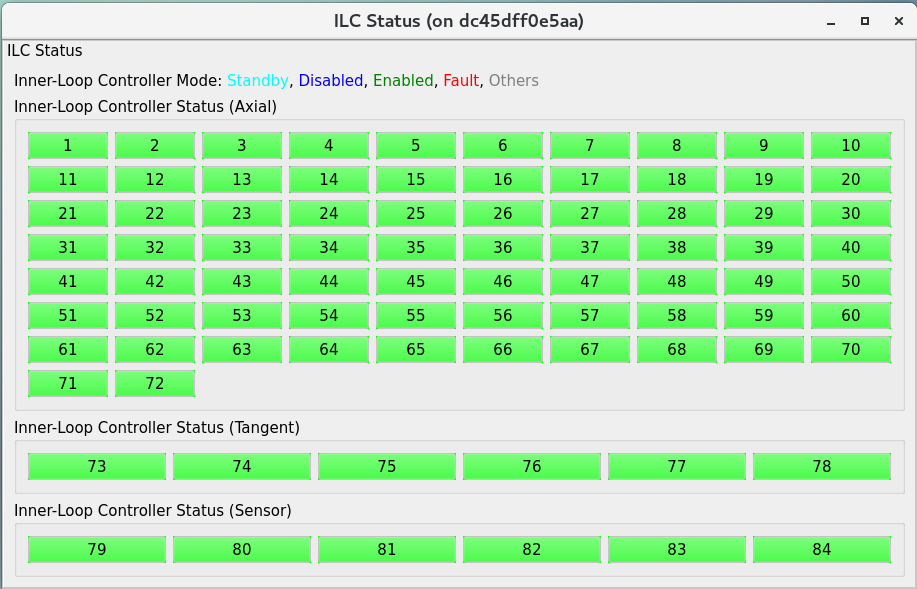
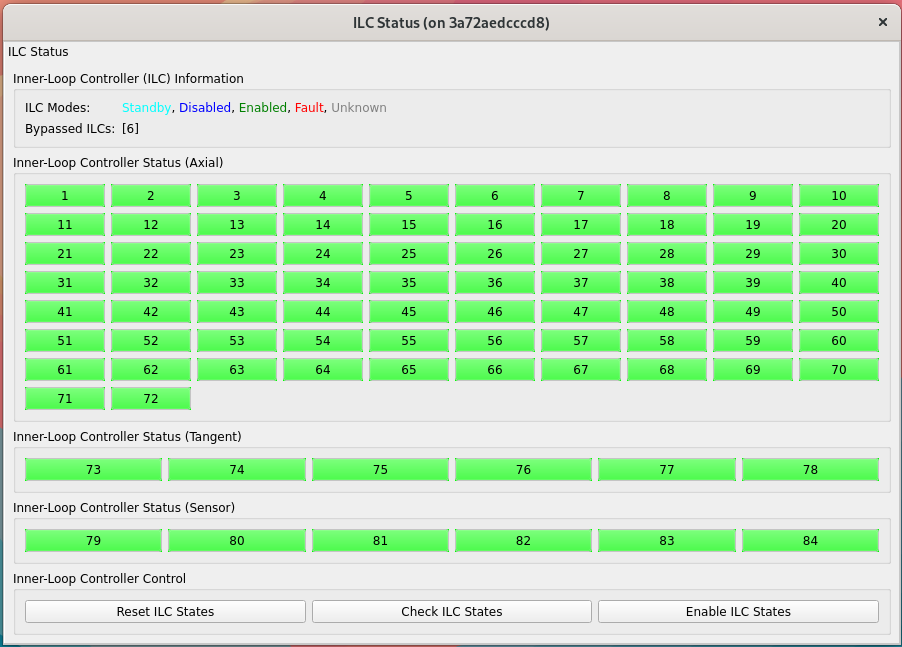
Improve the user manual.

diff --git a/doc/user-guide/user-guide.rst b/doc/user-guide/user-guide.rst
@@ -9,15 +9,13 @@ This GUI is supposed to be used by the hardware engineers or operators to have a
 If the GUI can not put the system into the closed-loop control, the M2 CSC will not be able to as well because they are using the same interface to the control system.
 Functionality of the GUI will be discussed in detail to provide the reader a comprehensive source for understanding the operation of GUI.
 
-It is noted that before the `DM_37422 <https://jira.lsstcorp.org/browse/DM-37422>`_ is fixed, you can only have the GUI or CSC connects to the M2 cell control system in a single time.
-Otherwise, you would get the TCP/IP connection error.
-In addition, there might be the inconsistency of internal data if you had used the deprecated M2 LabVIEW GUI to control the M2 already.
+It is noted that there might be the inconsistency of internal data if you had used the deprecated M2 LabVIEW GUI to control the M2 already.
 To fix the issue of internal error, the easierst way is to restart the cell control system (see :ref:`lsst.ts.m2gui-error_restart_control_system`).
 
 .. note::
   This GUI is to replace the original LabVIEW GUI: `ts_mtm2 <https://github.com/lsst-ts/ts_mtm2>`_, and the related executable is ``runM2Cntlr``.
   If the LabVIEW GUI was used to run the system with the opened- or closed-loop control, you may need to restart the control system (see the :ref:`lsst.ts.m2gui-error_restart_control_system`) before using the Python GUI or CSC to control the system.
-  This GUI will end the support once the `DM_37422 <https://jira.lsstcorp.org/browse/DM-37422>`_ is fixed.
+  This GUI will end the support soon (see `DM_43478 <https://rubinobs.atlassian.net/browse/DM-43478>`_).
   At this moment, it only plays the role to show the system status when the CSC is controlling the system when needed as the debug purpose.
 
 .. _Operation:
@@ -454,8 +452,13 @@ For the actuator ILC, the state machine starts in the **Standby** state, transit
 For the sensor ILC, the **Standby** state transitions to the **Enabled** state directly without the **Disabled** state in between.
 Both state machines transition to the **Fault** state when the fault happens.
 See the document of **MODBUS Protocol Interface Control Document for M2 Support System** for more details.
-
 Only when all ILCs are enabled, the system can transition to the **Enabled** state.
+
+Sometimes, you might want to have a more detailed control of ILCs.
+The **Reset ILC States** button resets all the current ILCs to NaN, which is recommanded before rechecking all the ILC states.
+The **Check ILC States** button queries all the **Unknown** ILCs to get the current states.
+The **Enable ILC States** button transitions all the ILCs to the **Enabled** state.
+These buttons can be used to debug or check the ILC states when the CSC is using the hardware at the same time.
 
 .. _lsst.ts.m2gui-user_net_force_moment:
 

diff --git a/doc/version_history.rst b/doc/version_history.rst
@@ -6,6 +6,17 @@
 Version History
 ##################
 
+.. _lsst.ts.m2gui-0.7.9:
+
+-------------
+0.7.9
+-------------
+
+* Update the ``TabIlcStatus`` class to reset, check, and enable the ILC states.
+* Update the ``LayoutControl._callback_signal_control()`` to switch the command source under the **Standby** and **Enable** states.
+* Add the return values to ``Model.enter_diagnostic()`` and ``Model.enter_enable()`` to judge the CSC is using the M2 or not.
+* Update the user documents.
+
 .. _lsst.ts.m2gui-0.7.8:
 
 -------------
